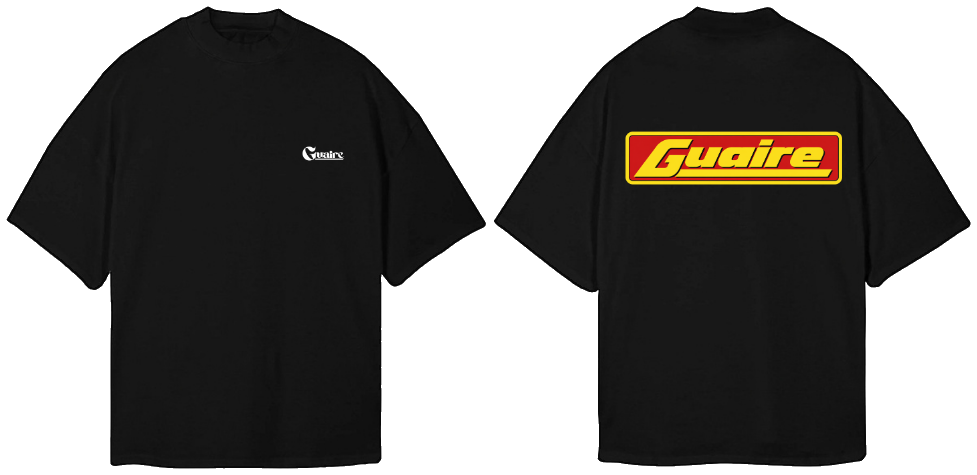
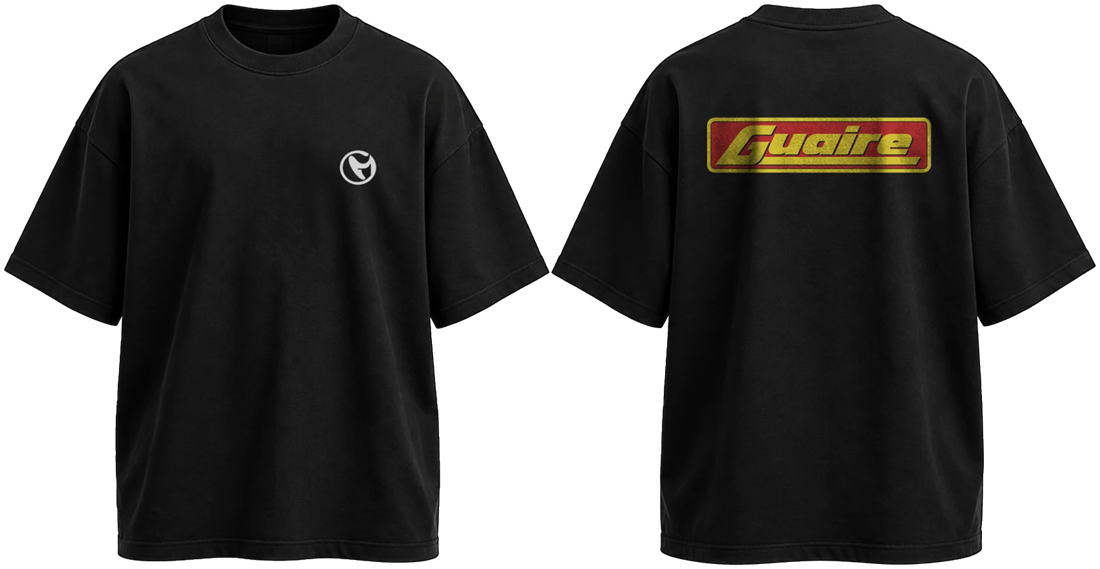
Realistic Sign Tee mockup and new Bring Back The Night tee
Sign Tee now shows the Photoshop mockup with the G roundel chest print.
Adds Bring Back The Night Tee (night tee 05): card, menu item and product page.

diff --git a/tees/bring-back-the-night.html b/tees/bring-back-the-night.html
@@ -3,12 +3,12 @@
 <head>
 <meta charset="UTF-8">
 <meta name="viewport" content="width=device-width, initial-scale=1">
-<title>Guaire Sign Tee &mdash; GUAIRE Drop 01</title>
-<meta name="description" content="Oversized black tee. The G roundel on the chest, the red and yellow sign across the back. &euro;45. Drop 01 from GUAIRE: modern Irish life, no shamrocks.">
+<title>Bring Back The Night Tee &mdash; GUAIRE Drop 01</title>
+<meta name="description" content="Oversized black tee. The G roundel on the chest; on the back, the lift home in a bottle-green 90s coup&eacute;. &euro;45. Drop 01 from GUAIRE: modern Irish life, no shamrocks.">
 <meta name="theme-color" content="#FAFAF8">
-<meta property="og:title" content="Guaire Sign Tee &mdash; GUAIRE">
-<meta property="og:description" content="Oversized black tee. The G roundel on the chest, the red and yellow sign across the back.">
-<meta property="og:image" content="../images/guaire-sign-tee-flat.png">
+<meta property="og:title" content="Bring Back The Night Tee &mdash; GUAIRE">
+<meta property="og:description" content="Oversized black tee. The G roundel on the chest; on the back, the lift home in a bottle-green 90s coup&eacute;.">
+<meta property="og:image" content="../images/guaire-night-tee-flat.png">
 <link rel="icon" type="image/png" href="../favicon.png">
 <link rel="apple-touch-icon" href="../favicon.png">
 <link rel="preconnect" href="https://fonts.googleapis.com">
@@ -34,26 +34,26 @@
 <main id="main">
 
   <nav class="crumbs" aria-label="Breadcrumb">
-    <a href="../index.html#first-look">Drop 01</a><span aria-hidden="true">/</span><a href="../index.html#drop">Tees</a><span aria-hidden="true">/</span><span aria-current="page">Guaire Sign Tee</span>
+    <a href="../index.html#first-look">Drop 01</a><span aria-hidden="true">/</span><a href="../index.html#drop">Tees</a><span aria-hidden="true">/</span><span aria-current="page">Bring Back The Night Tee</span>
   </nav>
 
   <section class="pdp-main" aria-labelledby="pdp-h">
     <div class="gallery">
       <div class="stage">
-        <img id="stage-img" data-view="back" src="../images/guaire-sign-tee-flat.png" width="1100" height="569" alt="Black oversized tee: a white G roundel on the chest and the red and yellow Guaire sign across the back.">
+        <img id="stage-img" data-view="back" src="../images/guaire-night-tee-flat.png" width="1100" height="569" alt="Black oversized tee: a white G roundel on the chest; on the back, the Guaire wordmark over a bottle-green 90s coup&eacute; and the words Bring back the night.">
       </div>
       <div class="thumbs" role="group" aria-label="Choose a view">
-        <button type="button" data-view="back" aria-pressed="true"><img src="../images/guaire-sign-tee-flat.png" alt="" data-view="back"><span>Back</span></button>
-        <button type="button" data-view="front" aria-pressed="false"><img src="../images/guaire-sign-tee-flat.png" alt="" data-view="front"><span>Front</span></button>
-        <button type="button" data-view="both" aria-pressed="false"><img src="../images/guaire-sign-tee-flat.png" alt="" data-view="both"><span>Both</span></button>
+        <button type="button" data-view="back" aria-pressed="true"><img src="../images/guaire-night-tee-flat.png" alt="" data-view="back"><span>Back</span></button>
+        <button type="button" data-view="front" aria-pressed="false"><img src="../images/guaire-night-tee-flat.png" alt="" data-view="front"><span>Front</span></button>
+        <button type="button" data-view="both" aria-pressed="false"><img src="../images/guaire-night-tee-flat.png" alt="" data-view="both"><span>Both</span></button>
       </div>
     </div>
 
     <div class="pdp-info">
-      <p class="kicker">Drop 01 &middot; Tee 03 &middot; Night tee</p>
-      <h1 id="pdp-h" class="pdp-name">Guaire Sign Tee</h1>
+      <p class="kicker">Drop 01 &middot; Tee 05 &middot; Night tee</p>
+      <h1 id="pdp-h" class="pdp-name">Bring Back The Night Tee</h1>
       <p class="pdp-price">&euro;45</p>
-      <p class="pdp-short">Oversized black tee. The G roundel on the chest, the red and yellow sign across the back.</p>
+      <p class="pdp-short">Oversized black tee. The G roundel on the chest; on the back, the lift home in a bottle-green 90s coup&eacute;.</p>
 
       <div class="sizes">
         <p class="kicker">Sizes</p>
@@ -67,13 +67,13 @@
       <div class="pdp-details">
         <details open>
           <summary>The reference</summary>
-          <p class="ref-title">Open late.</p>
-          <p>Every main street had one: a red and yellow sign with slanted lettering, lit up until the last customer left. Ours just says Guaire.</p>
+          <p class="ref-title">The lift home.</p>
+          <p>Somebody's cousin, a spoiler and one CD on repeat. Ireland had 522 nightclubs in 2000 and 83 by 2025. This one's for the nights, and the lifts home, worth keeping.</p>
         </details>
         <details>
           <summary>Print</summary>
           <p><strong>Front:</strong> a white G roundel on the chest.</p>
-          <p><strong>Back:</strong> the Guaire sign in red and yellow, slanted lettering on a bordered plate, with a worn print finish.</p>
+          <p><strong>Back:</strong> the Guaire wordmark over a bottle-green 90s coup&eacute;, with <em>Bring back the night.</em> underneath.</p>
         </details>
         <details>
           <summary>Fit and fabric</summary>
@@ -101,14 +101,14 @@
         <span class="more-name">Sideline Tee</span>
         <span class="more-meta">Day tee &middot; &euro;45</span>
       </a>
+      <a class="more-card more-night" href="sign.html">
+        <span class="more-img"><img src="../images/guaire-sign-tee-flat.png" width="1100" height="569" alt="" loading="lazy"></span>
+        <span class="more-name">Guaire Sign Tee</span>
+        <span class="more-meta">Night tee &middot; &euro;45</span>
+      </a>
       <a class="more-card more-night" href="original.html">
         <span class="more-img"><img src="../images/guaire-original-tee-flat.png" width="977" height="475" alt="" loading="lazy"></span>
         <span class="more-name">Guaire Original Tee</span>
-        <span class="more-meta">Night tee &middot; &euro;45</span>
-      </a>
-      <a class="more-card more-night" href="bring-back-the-night.html">
-        <span class="more-img"><img src="../images/guaire-night-tee-flat.png" width="1100" height="569" alt="" loading="lazy"></span>
-        <span class="more-name">Bring Back The Night Tee</span>
         <span class="more-meta">Night tee &middot; &euro;45</span>
       </a>
     </div>

diff --git a/index.html b/index.html
@@ -47,8 +47,8 @@
   <section class="first-look" id="first-look" aria-labelledby="feature-h">
     <div class="feature-head">
       <p class="kicker">First look · Drop 01</p>
-      <h2 id="feature-h">Four tees <em>to start.</em></h2>
-      <p class="feature-sub">Two for the day. <a href="#night-tees">Two for the night.</a></p>
+      <h2 id="feature-h">Five tees <em>to start.</em></h2>
+      <p class="feature-sub">Two for the day. <a href="#night-tees">Three for the night.</a></p>
     </div>
     <div class="products">
       <article class="product">
@@ -138,11 +138,11 @@
       <div class="products night-products" id="night-tees">
         <article class="product">
           <figure class="product-img">
-            <img src="images/guaire-sign-tee-flat.png" width="977" height="475" loading="lazy"
-                 alt="Black oversized tee, front and back: a small white Guaire logo on the chest and the red and yellow Guaire sign across the back.">
+            <img src="images/guaire-sign-tee-flat.png" width="1100" height="569" loading="lazy"
+                 alt="Black oversized tee, front and back: a white G roundel on the chest and the red and yellow Guaire sign across the back.">
           </figure>
           <h3><a href="tees/sign.html">Guaire Sign Tee</a></h3>
-          <p>Oversized black tee. Small Guaire on the chest, the red and yellow sign across the back.</p>
+          <p>Oversized black tee. The G roundel on the chest, the red and yellow sign across the back.</p>
           <div class="product-buy">
             <span class="price-tag">€45</span>
             <a class="btn btn-sm" href="#guestlist">Get it first</a>
@@ -155,6 +155,18 @@
           </figure>
           <h3><a href="tees/original.html">Guaire Original Tee</a></h3>
           <p>Oversized black tee. Small Guaire on the chest, the sky-blue Original oval and bubbles across the back.</p>
+          <div class="product-buy">
+            <span class="price-tag">€45</span>
+            <a class="btn btn-sm" href="#guestlist">Get it first</a>
+          </div>
+        </article>
+        <article class="product">
+          <figure class="product-img">
+            <img src="images/guaire-night-tee-flat.png" width="1100" height="569" loading="lazy"
+                 alt="Black oversized tee, front and back: a white G roundel on the chest; on the back, the Guaire wordmark over a bottle-green 90s coupé and the words 'Bring back the night.'">
+          </figure>
+          <h3><a href="tees/bring-back-the-night.html">Bring Back The Night Tee</a></h3>
+          <p>Oversized black tee. The G roundel on the chest; on the back, the lift home in a bottle-green 90s coupé.</p>
           <div class="product-buy">
             <span class="price-tag">€45</span>
             <a class="btn btn-sm" href="#guestlist">Get it first</a>
@@ -248,7 +260,7 @@
     <div class="drop-intro">
       <p class="kicker">The menu</p>
       <h2 id="drop-h">Drop 01</h2>
-      <p>Seven pieces for the launch: four tees, two hoodies and a cap. Made in small runs. The guest list gets served first.</p>
+      <p>Eight pieces for the launch: five tees, two hoodies and a cap. Made in small runs. The guest list gets served first.</p>
     </div>
 
     <div class="screen" role="group" aria-label="Drop 01 menu">
@@ -269,21 +281,22 @@
           <ul class="menu">
             <li><span class="num">1</span><a class="item" href="tees/tog-go-bog-e.html">Tóg Go Bog É Tee</a><span class="price">€45</span><span class="note">Black. A green road sign: take it easy.</span></li>
             <li><span class="num">2</span><a class="item" href="tees/sideline.html">Sideline Tee</a><span class="price">€45</span><span class="note">Black. GUAIRE painted on the pitch.</span></li>
-            <li><span class="num">3</span><a class="item" href="tees/sign.html">Guaire Sign Tee</a><span class="price">€45</span><span class="note">Black heavyweight. The Guaire sign across the back.</span></li>
+            <li><span class="num">3</span><a class="item" href="tees/sign.html">Guaire Sign Tee</a><span class="price">€45</span><span class="note">Black. G roundel on the chest, the Guaire sign on the back.</span></li>
             <li><span class="num">4</span><a class="item" href="tees/original.html">Guaire Original Tee</a><span class="price">€45</span><span class="note">Black. Sky-blue oval, bubbles and all.</span></li>
+            <li><span class="num">5</span><a class="item" href="tees/bring-back-the-night.html">Bring Back The Night Tee</a><span class="price">€45</span><span class="note">Black. The lift home, in bottle green.</span></li>
           </ul>
         </div>
         <div class="menu-group">
           <h3>Hoodies</h3>
           <ul class="menu">
-            <li><span class="num">5</span><span class="item">Last Bus Hoodie</span><span class="price">€120</span><span class="note">Brushed fleece for a stop that may or may not be served.</span></li>
-            <li><span class="num">6</span><span class="item">Afters Hoodie</span><span class="price">€120</span><span class="note">Oversized and warm, for the kitchen at 5am.</span></li>
+            <li><span class="num">6</span><span class="item">Last Bus Hoodie</span><span class="price">€120</span><span class="note">Brushed fleece for a stop that may or may not be served.</span></li>
+            <li><span class="num">7</span><span class="item">Afters Hoodie</span><span class="price">€120</span><span class="note">Oversized and warm, for the kitchen at 5am.</span></li>
           </ul>
         </div>
         <div class="menu-group">
           <h3>Caps</h3>
           <ul class="menu">
-            <li><span class="num">7</span><span class="item">Stall The Ball Cap</span><span class="price">€35</span><span class="note">Six-panel, embroidered. Take it easy.</span></li>
+            <li><span class="num">8</span><span class="item">Stall The Ball Cap</span><span class="price">€35</span><span class="note">Six-panel, embroidered. Take it easy.</span></li>
           </ul>
         </div>
         <a class="menu-extra" href="#guestlist">★ Guest list served first ★</a>

diff --git a/styles.css b/styles.css
@@ -468,7 +468,9 @@ h1 em, h2 em { font-style: normal; color: var(--green); }
 .night-lead p { margin: 0 0 12px; font-size: clamp(18px, 1.6vw, 22px); color: rgba(255,255,255,.78); max-width: 36ch; }
 .night-lead .night-lead-big { margin: 0; font-family: var(--display); font-size: clamp(26px, 3vw, 42px); line-height: 1.08; color: var(--white); }
 /* the night tees: black on black, so each sits in a pool of club light */
-.night-products { grid-column: 1 / -1; }
+.night-products { grid-column: 1 / -1; grid-template-columns: repeat(3, minmax(0, 1fr)); }
+@media (max-width: 1000px) { .night-products { grid-template-columns: repeat(2, minmax(0, 1fr)); } }
+@media (max-width: 700px) { .night-products { grid-template-columns: 1fr; } }
 .night .product-img { background: radial-gradient(ellipse 58% 62% at 50% 50%, rgba(255,255,255,.17), rgba(255,255,255,.05) 55%, transparent 76%); }
 .night .product-img img { filter: drop-shadow(0 22px 26px rgba(0,0,0,.75)); }
 .night .product p { color: rgba(255,255,255,.66); }
@@ -748,7 +750,8 @@ h1 em, h2 em { font-style: normal; color: var(--green); }
   border-top: 1px solid var(--line);
 }
 .more h2 { font-size: clamp(36px, 4.6vw, 68px); margin-bottom: clamp(24px, 3vw, 40px); }
-.more-grid { display: grid; grid-template-columns: repeat(3, minmax(0, 1fr)); gap: clamp(16px, 3vw, 40px); }
+.more-grid { display: grid; grid-template-columns: repeat(4, minmax(0, 1fr)); gap: clamp(16px, 3vw, 40px); }
+@media (max-width: 900px) { .more-grid { grid-template-columns: repeat(2, minmax(0, 1fr)); } }
 .more-card { display: grid; gap: 6px; text-decoration: none; }
 .more-img { display: block; padding: 8% 6%; margin-bottom: 8px; transition: transform .3s; }
 .more-day .more-img { background: radial-gradient(ellipse 60% 62% at 50% 50%, #E6E6E2, rgba(230,230,226,.4) 60%, transparent 78%); }

diff --git a/tees/sideline.html b/tees/sideline.html
@@ -97,13 +97,18 @@
         <span class="more-meta">Day tee &middot; &euro;45</span>
       </a>
       <a class="more-card more-night" href="sign.html">
-        <span class="more-img"><img src="../images/guaire-sign-tee-flat.png" width="977" height="475" alt="" loading="lazy"></span>
+        <span class="more-img"><img src="../images/guaire-sign-tee-flat.png" width="1100" height="569" alt="" loading="lazy"></span>
         <span class="more-name">Guaire Sign Tee</span>
         <span class="more-meta">Night tee &middot; &euro;45</span>
       </a>
       <a class="more-card more-night" href="original.html">
         <span class="more-img"><img src="../images/guaire-original-tee-flat.png" width="977" height="475" alt="" loading="lazy"></span>
         <span class="more-name">Guaire Original Tee</span>
+        <span class="more-meta">Night tee &middot; &euro;45</span>
+      </a>
+      <a class="more-card more-night" href="bring-back-the-night.html">
+        <span class="more-img"><img src="../images/guaire-night-tee-flat.png" width="1100" height="569" alt="" loading="lazy"></span>
+        <span class="more-name">Bring Back The Night Tee</span>
         <span class="more-meta">Night tee &middot; &euro;45</span>
       </a>
     </div>

diff --git a/tees/tog-go-bog-e.html b/tees/tog-go-bog-e.html
@@ -97,13 +97,18 @@
         <span class="more-meta">Day tee &middot; &euro;45</span>
       </a>
       <a class="more-card more-night" href="sign.html">
-        <span class="more-img"><img src="../images/guaire-sign-tee-flat.png" width="977" height="475" alt="" loading="lazy"></span>
+        <span class="more-img"><img src="../images/guaire-sign-tee-flat.png" width="1100" height="569" alt="" loading="lazy"></span>
         <span class="more-name">Guaire Sign Tee</span>
         <span class="more-meta">Night tee &middot; &euro;45</span>
       </a>
       <a class="more-card more-night" href="original.html">
         <span class="more-img"><img src="../images/guaire-original-tee-flat.png" width="977" height="475" alt="" loading="lazy"></span>
         <span class="more-name">Guaire Original Tee</span>
+        <span class="more-meta">Night tee &middot; &euro;45</span>
+      </a>
+      <a class="more-card more-night" href="bring-back-the-night.html">
+        <span class="more-img"><img src="../images/guaire-night-tee-flat.png" width="1100" height="569" alt="" loading="lazy"></span>
+        <span class="more-name">Bring Back The Night Tee</span>
         <span class="more-meta">Night tee &middot; &euro;45</span>
       </a>
     </div>

diff --git a/tees/original.html b/tees/original.html
@@ -102,8 +102,13 @@
         <span class="more-meta">Day tee &middot; &euro;45</span>
       </a>
       <a class="more-card more-night" href="sign.html">
-        <span class="more-img"><img src="../images/guaire-sign-tee-flat.png" width="977" height="475" alt="" loading="lazy"></span>
+        <span class="more-img"><img src="../images/guaire-sign-tee-flat.png" width="1100" height="569" alt="" loading="lazy"></span>
         <span class="more-name">Guaire Sign Tee</span>
+        <span class="more-meta">Night tee &middot; &euro;45</span>
+      </a>
+      <a class="more-card more-night" href="bring-back-the-night.html">
+        <span class="more-img"><img src="../images/guaire-night-tee-flat.png" width="1100" height="569" alt="" loading="lazy"></span>
+        <span class="more-name">Bring Back The Night Tee</span>
         <span class="more-meta">Night tee &middot; &euro;45</span>
       </a>
     </div>
